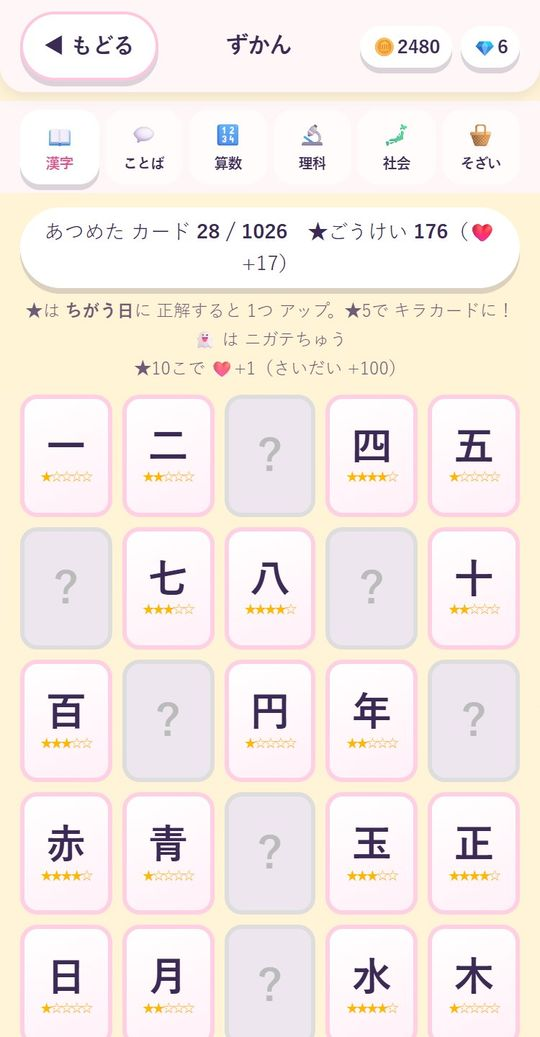
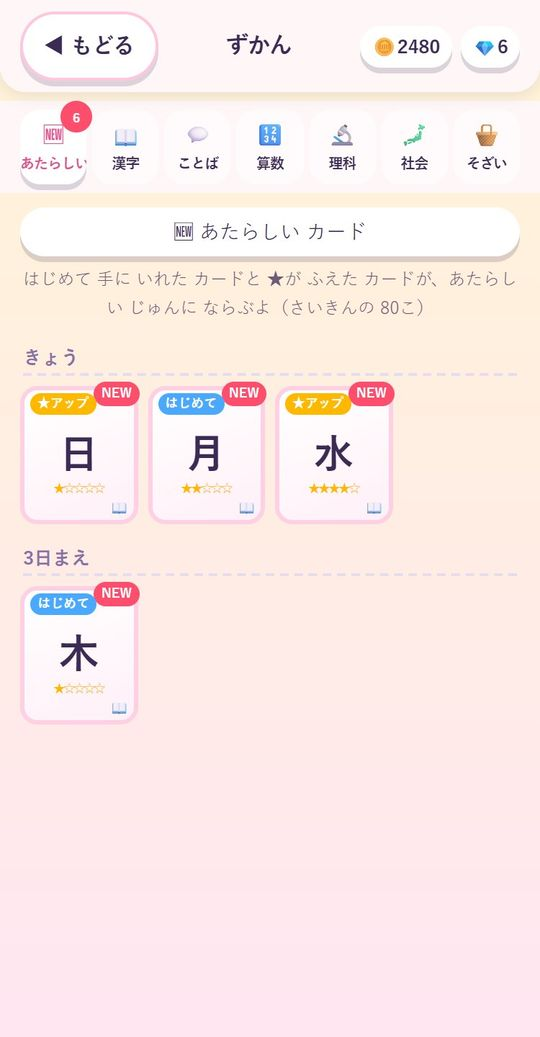
ずかんに「あたらしい」タブ・ホームの印をNEWに（v57）
- はじめて手に入れたカード・★が増えたカードを記録し、ずかんの「🆕 あたらしい」タブに
  新しい順（きょう／きのう／○日まえ）で表示。未読にはNEW
- ホームのずかんの数字（ニガテの数で分かりにくかった）をやめ、未読があるときだけNEW
  （ニガテの数は ぼうけん画面の「ニガテモンスター たいじ」に表示済み）
- 説明書を更新

diff --git a/app.js b/app.js
@@ -137,11 +137,19 @@ function onCorrect(id) {
     if (c.s === 0) { c.s = 1; c.last = d; ev = "new"; }
   } else if (c.s === 0) { c.s = 1; c.last = d; ev = "new"; }
   else if (c.last !== d && c.s < 5) { c.s++; c.last = d; ev = "up"; }
-  if (ev === "new" || ev === "up") addProg("starup3");
+  if (ev === "new" || ev === "up") { addProg("starup3"); logCard(id, ev, c.s); }
   // タマゴもいっしょに育つ
   if (growEggs((hsp().egg || 1) * (okaeriBoost() ? 2 : 1)) && typeof B !== "undefined" && B && $("fx")) fxText("🥚 タマゴが うごいた！", "card");
   return ev;
 }
+// あたらしく なった カード（ずかんの「🆕 あたらしい」に ならべる。さいきんの 80こ）
+function logCard(id, k, s) {
+  S.cardLog = (S.cardLog || []).filter((x) => x.id !== id);
+  S.cardLog.unshift({ id, k, s, at: Date.now() });
+  S.cardLog.length = Math.min(S.cardLog.length, 80);
+}
+// まだ 見ていない あたらしい カードの かず
+const newCards = () => (S.cardLog || []).filter((x) => x.at > (S.cardSeenAt || 0)).length;
 function onWrong(id) {
   const c = card(id);
   c.tot++; c.ng = true; c.st = 0; c.cs = 0; recordStat(false);
@@ -503,7 +511,7 @@ function home() {
       <button onclick="go('shop')"><span class="mi">🛒</span>ショップ${newShop() ? `<i class="badge">NEW</i>` : ""}</button>
       <button onclick="go('equip')"><span class="mi">🎽</span>そうび</button>
       <button onclick="go('nakama')"><span class="mi">🐾</span>なかま${readyEggs().length ? `<i class="badge">🐣</i>` : otBack().length ? `<i class="badge">🎒</i>` : ""}</button>
-      <button onclick="go('zukan')"><span class="mi">🃏</span>ずかん${ng ? `<i class="badge">${ng}</i>` : ""}</button>
+      <button onclick="go('zukan', newCards() ? 'new' : undefined)"><span class="mi">🃏</span>ずかん${newCards() ? `<i class="badge">NEW</i>` : ""}</button>
       <button onclick="go('missions')"><span class="mi">📜</span>ミッション${claimable ? `<i class="badge">!</i>` : ""}</button>
       <button onclick="saveMenu()"><span class="mi">💾</span>セーブ</button>
       <div class="hrow2"><button class="tbtn" onclick="go('treasures')"><span class="mi">🏆</span>たからもの${unseenTreasures().length ? `<i class="badge">NEW</i>` : ""}</button>
@@ -1500,7 +1508,8 @@ function worldCards(w) {
 // デバッグ：ずかん 全表示
 const zukanAll = () => PQ_DEBUG && window.PQ_ZUKANALL;
 function zukanTabs() {
-  return `<div class="tabs wtabs">${WORLDS.map((w) => `<button class="${zTab === w.id ? "on" : ""}" onclick="zukan('${w.id}')">${w.icon}<small>${w.name.replace("の国", "")}</small></button>`).join("")}<button class="${zTab === "mats" ? "on" : ""}" onclick="zukan('mats')">🧺<small>そざい</small></button></div>`;
+  const nn = newCards();
+  return `<div class="tabs wtabs"><button class="znew ${zTab === "new" ? "on" : ""}" onclick="zukan('new')">🆕<small>あたらしい</small>${nn ? `<i class="badge">${nn > 99 ? "99+" : nn}</i>` : ""}</button>${WORLDS.map((w) => `<button class="${zTab === w.id ? "on" : ""}" onclick="zukan('${w.id}')">${w.icon}<small>${w.name.replace("の国", "")}</small></button>`).join("")}<button class="${zTab === "mats" ? "on" : ""}" onclick="zukan('mats')">🧺<small>そざい</small></button></div>`;
 }
 // そざいずかん：どこで 手に入るか（一度 手に入れた そざいだけ）
 function matPlaces(k) {
@@ -1534,9 +1543,35 @@ function matZukan() {
       : `<div class="mcard lock"><span class="mem">？</span><div><b>？？？</b><small>まだ 見つけていない そざい</small></div></div>`).join("")}</div>`, "bg-shop");
 }
 
+// あたらしい カード（はじめて 手に いれた・★が ふえた）を あたらしい じゅんに
+function newZukan() {
+  const seen = S.cardSeenAt || 0, log = (S.cardLog || []).filter((x) => S.cards[x.id]).sort((a, b) => b.at - a.at);
+  const day = (t) => { const d = Math.round((new Date(today() + "T00:00:00") - new Date(dateKey(new Date(t)) + "T00:00:00")) / 864e5); return d <= 0 ? "きょう" : d === 1 ? "きのう" : `${d}日まえ`; };
+  let last = "", tiles = "";
+  log.forEach((x) => {
+    const c = S.cards[x.id], d = day(x.at), w = cardWorld(x.id);
+    if (d !== last) { tiles += `<div class="zday">${d}</div>`; last = d; }
+    tiles += `<button class="zc ${x.id.startsWith("k:") ? "" : "f"} ${c.s >= 5 ? "shiny" : ""} ${c.ng ? "ngc" : ""}" onclick="cardDetail('${x.id}')">
+      ${x.at > seen ? `<i class="znewtag">NEW</i>` : ""}<i class="zkind ${x.k}">${x.k === "new" ? "はじめて" : "★アップ"}</i>
+      <b>${esc(cardLabel(x.id))}</b><span class="stars">${"★".repeat(c.s)}${"☆".repeat(5 - c.s)}</span>${w ? `<i class="zw">${w.icon}</i>` : ""}</button>`;
+  });
+  setScreen(`${topBar("ずかん")}${zukanTabs()}
+    <div class="zhead">🆕 あたらしい カード</div>
+    <p class="note">はじめて 手に いれた カードと ★が ふえた カードが、あたらしい じゅんに ならぶよ（さいきんの 80こ）</p>
+    ${log.length ? `<div class="zgrid znewgrid">${tiles}</div>` : `<div class="empty-note"><div class="bigicon">🃏</div><p>まだ ないよ。<br>バトルで 正解すると カードが ふえるよ！</p></div>`}`, "bg-shop");
+  // 見たので NEW を けす（つぎに ひらいた ときから）
+  S.cardSeenAt = Date.now(); save();
+}
+// カードが どの国の ものか
+function cardWorld(id) {
+  if (id.startsWith("k:")) return WORLDS.find((w) => w.id === "kanji");
+  const ch = CHAPTERS.find((c) => c.items && c.items.includes(id));
+  return ch ? WORLDS.find((w) => w.id === ch.w) : null;
+}
 function zukan(tab) {
   if (tab) zTab = tab;
   if (zTab === "mats") return matZukan();
+  if (zTab === "new") return newZukan();
   const ids = worldCards(zTab);
   const got = ids.filter((id) => S.cards[id] && S.cards[id].s > 0).length;
   const big = zTab === "kanji";

diff --git a/manual/_src/puniquest-manual.html b/manual/_src/puniquest-manual.html
@@ -226,7 +226,7 @@ footer { margin-top: 48px; text-align: center; color: var(--ink-soft); font-size
           <li><span class="n y">6</span><span><b>ショップ</b>：そうびや かぐを かう（あたらしい しなものには <b>NEW</b>）。</span></li>
           <li><span class="n y">7</span><span><b>そうび</b>：ぶき・よろい・ぼうしを つけかえる。</span></li>
           <li><span class="n y">8</span><span><b>なかま</b>：なかまや タマゴの ようす。おつかいも ここから。</span></li>
-          <li><span class="n y">9</span><span><b>ずかん</b>：あつめた カード・そざい。</span></li>
+          <li><span class="n y">9</span><span><b>ずかん</b>：あつめた カード・そざい。あたらしい カードが ふえると <b>NEW</b> が つくよ。</span></li>
           <li><span class="n y">10</span><span><b>ミッション</b>：まいにちの おだい。</span></li>
           <li><span class="n y">11</span><span><b>セーブ</b>：きろくを のこす（ふだんは じどうで セーブされるよ）。</span></li>
           <li><span class="n y">12</span><span><b>🏆 たからもの</b>（いちばん下の 金色の ボタン）：あつめた たからものを 見る。</span></li>
@@ -572,6 +572,7 @@ footer { margin-top: 48px; text-align: center; color: var(--ink-soft); font-size
         <div class="phone"><img src="img/21_zukan.jpg" alt="カードずかん" width="750" height="1440" loading="lazy"></div>
         <h4>カードずかん</h4>
         <p>せいかいした もんだいは <b>カード</b>に なるよ。<b>ちがう日に</b> また せいかいすると ★が 1つ ふえて、★5で キラカードに！ ★を 10こ あつめるごとに ❤たいりょくが 1 ふえるよ。</p>
+        <p>いちばん左の <span class="tap">🆕 あたらしい</span> タブでは、はじめて 手に いれた カードや ★が ふえた カードが、あたらしい じゅんに ならぶよ。</p>
       </div>
       <div class="g">
         <div class="phone"><img src="img/22_mats.jpg" alt="そざいずかん" width="750" height="1440" loading="lazy"></div>

diff --git a/manual/kids.html b/manual/kids.html
@@ -248,7 +248,7 @@ section, header, nav.toc, .pc, .qa { scroll-margin-top: 84px; }
           <li><span class="n y">6</span><span><b>ショップ</b>：そうびや かぐを かう（あたらしい しなものには <b>NEW</b>）。</span></li>
           <li><span class="n y">7</span><span><b>そうび</b>：ぶき・よろい・ぼうしを つけかえる。</span></li>
           <li><span class="n y">8</span><span><b>なかま</b>：なかまや タマゴの ようす。おつかいも ここから。</span></li>
-          <li><span class="n y">9</span><span><b>ずかん</b>：あつめた カード・そざい。</span></li>
+          <li><span class="n y">9</span><span><b>ずかん</b>：あつめた カード・そざい。あたらしい カードが ふえると <b>NEW</b> が つくよ。</span></li>
           <li><span class="n y">10</span><span><b>ミッション</b>：まいにちの おだい。</span></li>
           <li><span class="n y">11</span><span><b>セーブ</b>：きろくを のこす（ふだんは じどうで セーブされるよ）。</span></li>
           <li><span class="n y">12</span><span><b>🏆 たからもの</b>（いちばん下の 金色の ボタン）：あつめた たからものを 見る。</span></li>
@@ -594,6 +594,7 @@ section, header, nav.toc, .pc, .qa { scroll-margin-top: 84px; }
         <div class="phone"><img src="img/21_zukan.jpg" alt="カードずかん" width="750" height="1440" loading="lazy"></div>
         <h4>カードずかん</h4>
         <p>せいかいした もんだいは <b>カード</b>に なるよ。<b>ちがう日に</b> また せいかいすると ★が 1つ ふえて、★5で キラカードに！ ★を 10こ あつめるごとに ❤たいりょくが 1 ふえるよ。</p>
+        <p>いちばん左の <span class="tap">🆕 あたらしい</span> タブでは、はじめて 手に いれた カードや ★が ふえた カードが、あたらしい じゅんに ならぶよ。</p>
       </div>
       <div class="g">
         <div class="phone"><img src="img/22_mats.jpg" alt="そざいずかん" width="750" height="1440" loading="lazy"></div>

diff --git a/style.css b/style.css
@@ -982,3 +982,16 @@ button.okbar { display: block; width: calc(100% - 32px); border: 0; cursor: poin
 .tabs.rmtabs .stamps { flex: 1; margin: 0; gap: 4px; }
 .tabs.rmtabs .stamps span { width: 28px; height: 28px; font-size: 15px; }
 .stamps small { line-height: 1.2; }
+/* ずかん：あたらしい カード */
+.wtabs .znew { position: relative; }
+.wtabs .znew .badge { top: -6px; right: -4px; font-size: 9px; padding: 1px 5px; }
+.znewgrid { grid-template-columns: repeat(4, 1fr); }
+.zday { grid-column: 1 / -1; font-weight: 900; font-size: 13px; color: #8a6fa8; margin: 6px 2px 0; border-bottom: 2px dashed #e6dcef; }
+.znewgrid .zc { position: relative; padding-top: 16px; }
+.znewgrid .zc.f { aspect-ratio: auto; }
+.znewgrid .zc.f b { font-size: 12px; }
+.zc .znewtag { position: absolute; top: -6px; right: -4px; font-style: normal; font-size: 9px; font-weight: 900; color: #fff; background: #ff4d6d; border-radius: 99px; padding: 1px 5px; }
+.zc .zkind { position: absolute; top: 2px; left: 4px; font-style: normal; font-size: 9px; font-weight: 900; color: #fff; border-radius: 99px; padding: 0 5px; background: #4aa8ff; }
+.zc .zkind.up { background: #ffb800; }
+.zc .zw { position: absolute; bottom: 1px; right: 3px; font-style: normal; font-size: 10px; }
+.znewgrid .zc { aspect-ratio: auto; min-height: 96px; display: flex; flex-direction: column; align-items: center; justify-content: center; gap: 2px; }

diff --git a/manual/_src/shoot.js b/manual/_src/shoot.js
@@ -58,7 +58,7 @@ const SHOTS = [
   ["19c_otsukai", `RESTORE(); PETS.slice(0,10).forEach(p=>S.petDex[p.id]=1); var n=Date.now(), rw={coin:60,mats:{suuji:4,hidama:3},rare:[],egg:-1,xp:10}; S.otsukai=[{u:2,w:"math",h:8,start:n-8*3600000,end:n-1000,rw},{u:4,w:"sci",h:4,start:n-3600000,end:n+2*3600000+1500000,rw}]; nakama("otsukai")`],
   ["19d_otquiz", `RESTORE(); var n=Date.now(), rw={coin:60,mats:{suuji:4,hidama:3},rare:[],egg:-1,xp:10}; S.otsukai=[{u:2,w:"math",h:8,start:n-8*3600000,end:n-1000,rw}]; var id=CHAPTERS.find(c=>c.id==="k1b").items[3]; onWrong(id); nakama("otsukai"); S.otsukai[0].quiz=Object.assign({ng:true,cls:""},(function(){ for(let i=0;i<20;i++){ const q=makeQ(id,"kread"); if(q.kind==="choice") return {id:q.id,head:q.head,opts:q.opts,ai:q.ai,explain:q.explain}; } })()); otReturn(0)`, 900],
   ["20_dex", `RESTORE(); nakama("dex")`],
-  ["21_zukan", `RESTORE(); zukan("kanji")`],
+  ["21_zukan", `RESTORE(); S.cardLog=CHAPTERS.find(c=>c.id==="k1b").items.slice(0,6).map((id,i)=>({id,k:i%3?"new":"up",s:1,at:Date.now()-i*36e5*(i>3?20:1)})); zukan("new")`],
   ["22_mats", `RESTORE(); zukan("mats")`],
   ["23_missions", `RESTORE(); missions()`],
   ["24_settings", `RESTORE(); parent()`],

diff --git a/sw.js b/sw.js
@@ -1,6 +1,6 @@
 // オフラインでも遊べるように、アプリのファイルを保存しておく
 // ※アプリを更新したら VERSION の数字を上げる
-const VERSION = "puni-v56";
+const VERSION = "puni-v57";
 const FILES = ["./", "index.html", "style.css", "data.js", "world.js", "c_kanji.js", "c_kotoba.js", "c_math.js", "c_sci.js", "c_soc.js", "cloud.js", "pets.js", "music.js", "gear.js", "extra.js", "treasure.js", "hiken.js", "okaeri.js", "otsukai.js", "room.js", "furnart.js", "roomview.js", "talk.js", "yomi.js", "app.js", "manifest.webmanifest", "icons/icon-192.png", "icons/apple-touch-icon.png"];
 
 self.addEventListener("install", (e) => {

diff --git a/okaeri.js b/okaeri.js
@@ -33,6 +33,7 @@ const NEWS = [
   { v: 53, t: "🛏 かぐが 40しゅるい ふえた（国を すすめると ショップに ならぶよ）" },
   { v: 54, t: "👆 ひみつきちの かぐを ドラッグで うごかせるように なった" },
   { v: 55, t: "📁 ひみつきちの へやを きろく・よみこみ できるように なった" },
+  { v: 57, t: "🆕 ずかんに あたらしい カードを 見られる タブが できた" },
 ];
 
 const daysBetween = (a, b) => Math.round((new Date(b + "T00:00:00") - new Date(a + "T00:00:00")) / 86400000);
